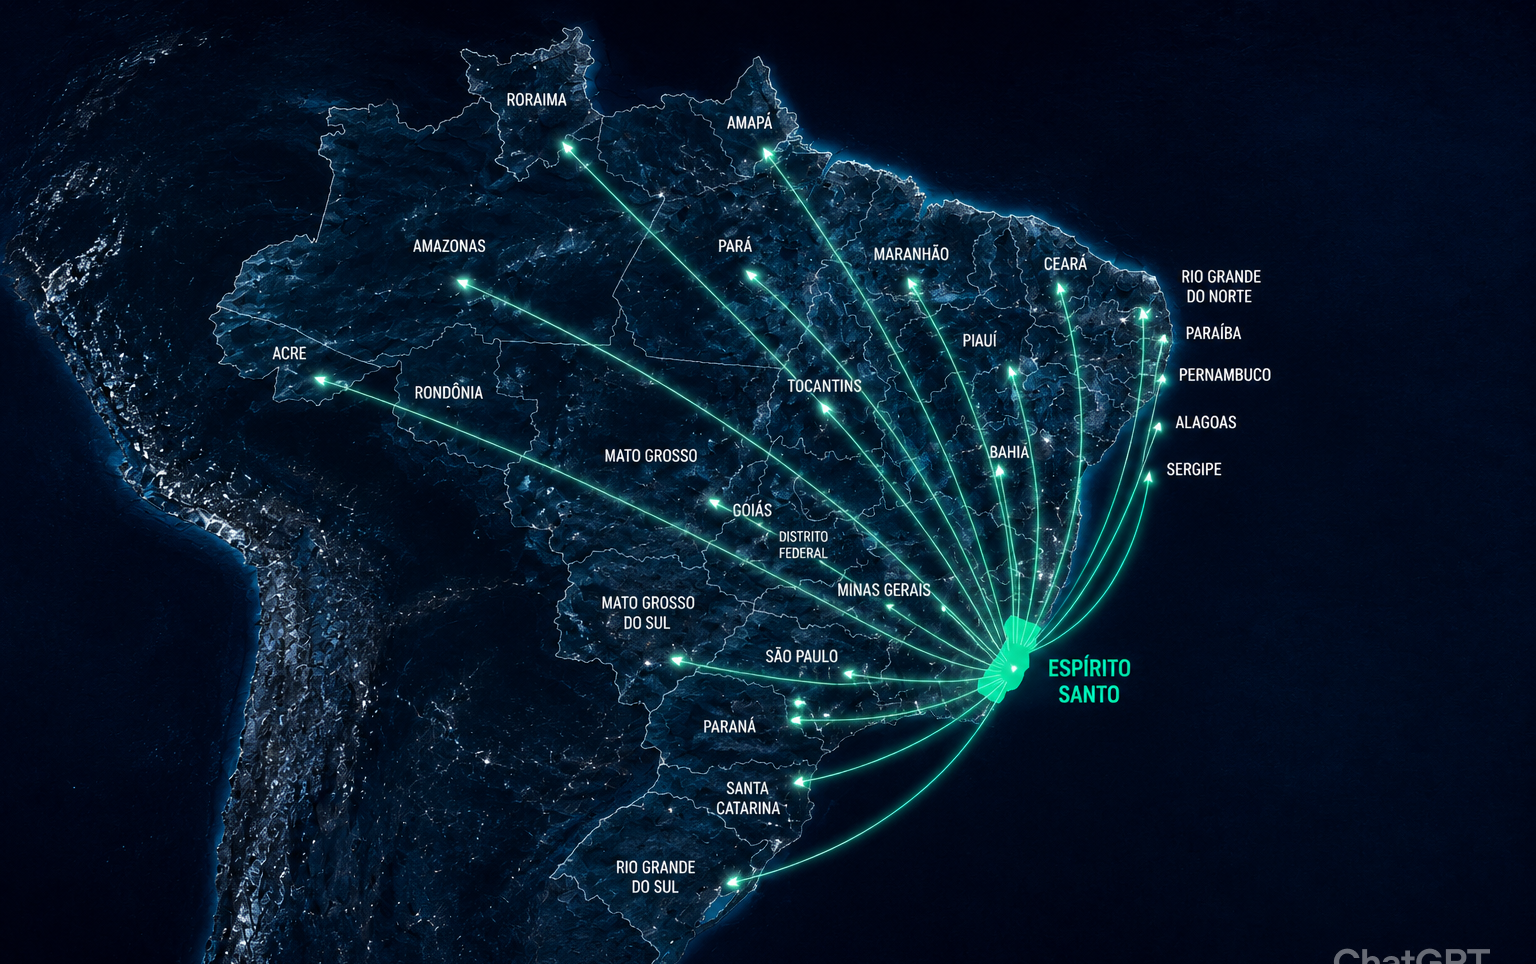
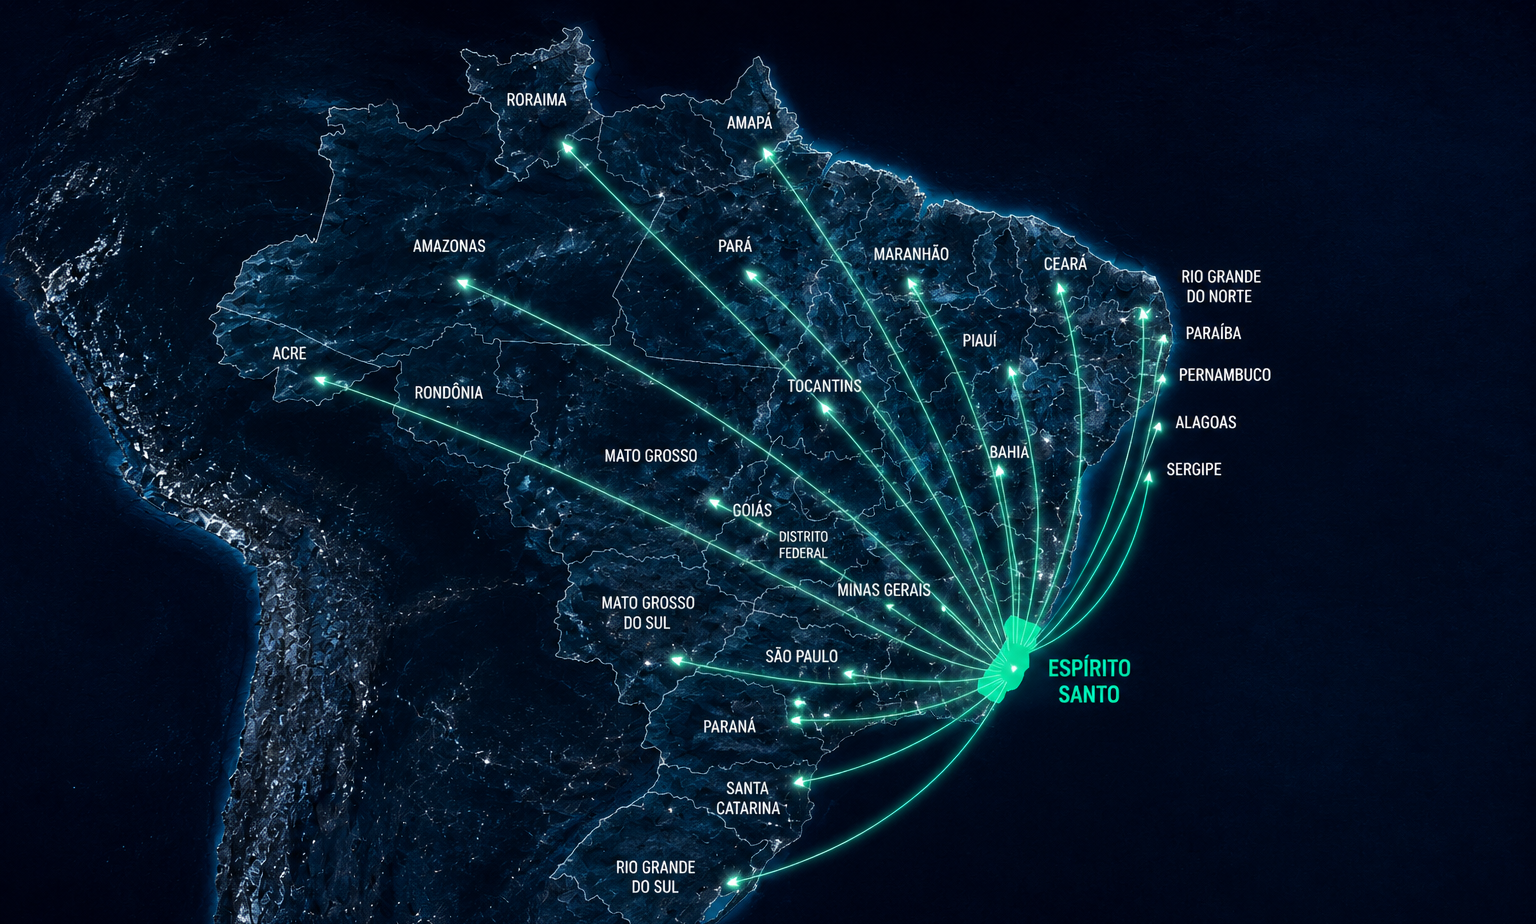
fix: Slide3 — cortar watermark completo + overlay RJ no mapa

diff --git a/src/slides/SlideESVantagens.tsx b/src/slides/SlideESVantagens.tsx
@@ -108,6 +108,18 @@ export function SlideESVantagens() {
               objectPosition: "center center",
             }}
           />
+          {/* RJ overlay — SVG coord system matches image (1536×924, xMidYMid slice) */}
+          <svg
+            viewBox="0 0 1536 924"
+            preserveAspectRatio="xMidYMid slice"
+            style={{ position: "absolute", inset: 0, width: "100%", height: "100%" }}
+          >
+            <circle cx={830} cy={565} r="4" fill="#2dd47e" fillOpacity="0.85" />
+            <text x={848} y={558} fill="#ffffff" fontSize="18" fontWeight="600"
+              fontFamily="system-ui, sans-serif" opacity="0.9" letterSpacing="0.05em">
+              RIO DE JANEIRO
+            </text>
+          </svg>
         </div>
 
         {/* Right — title + cards */}